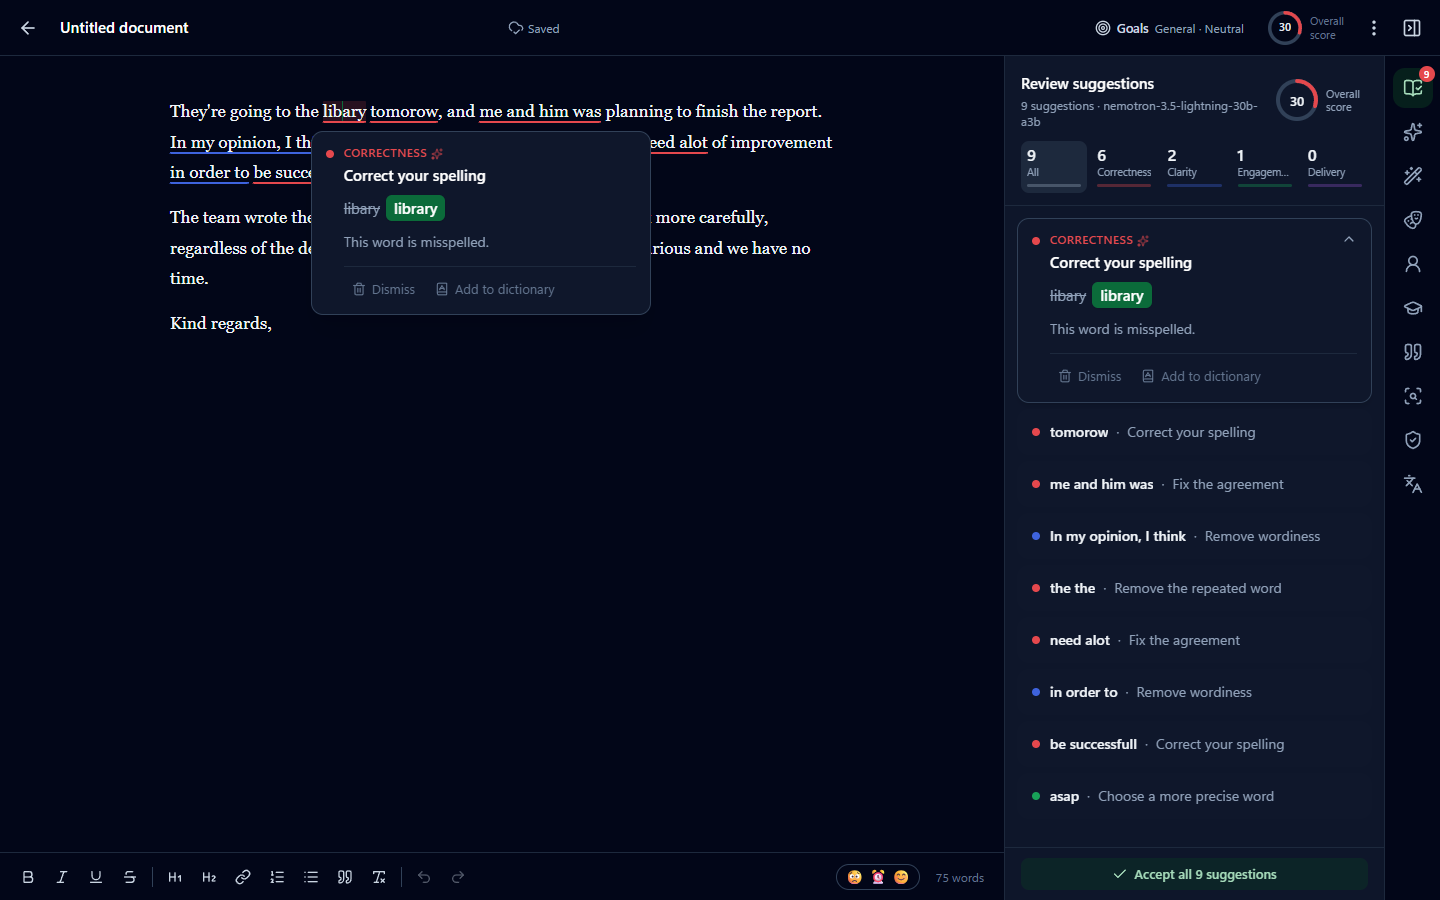
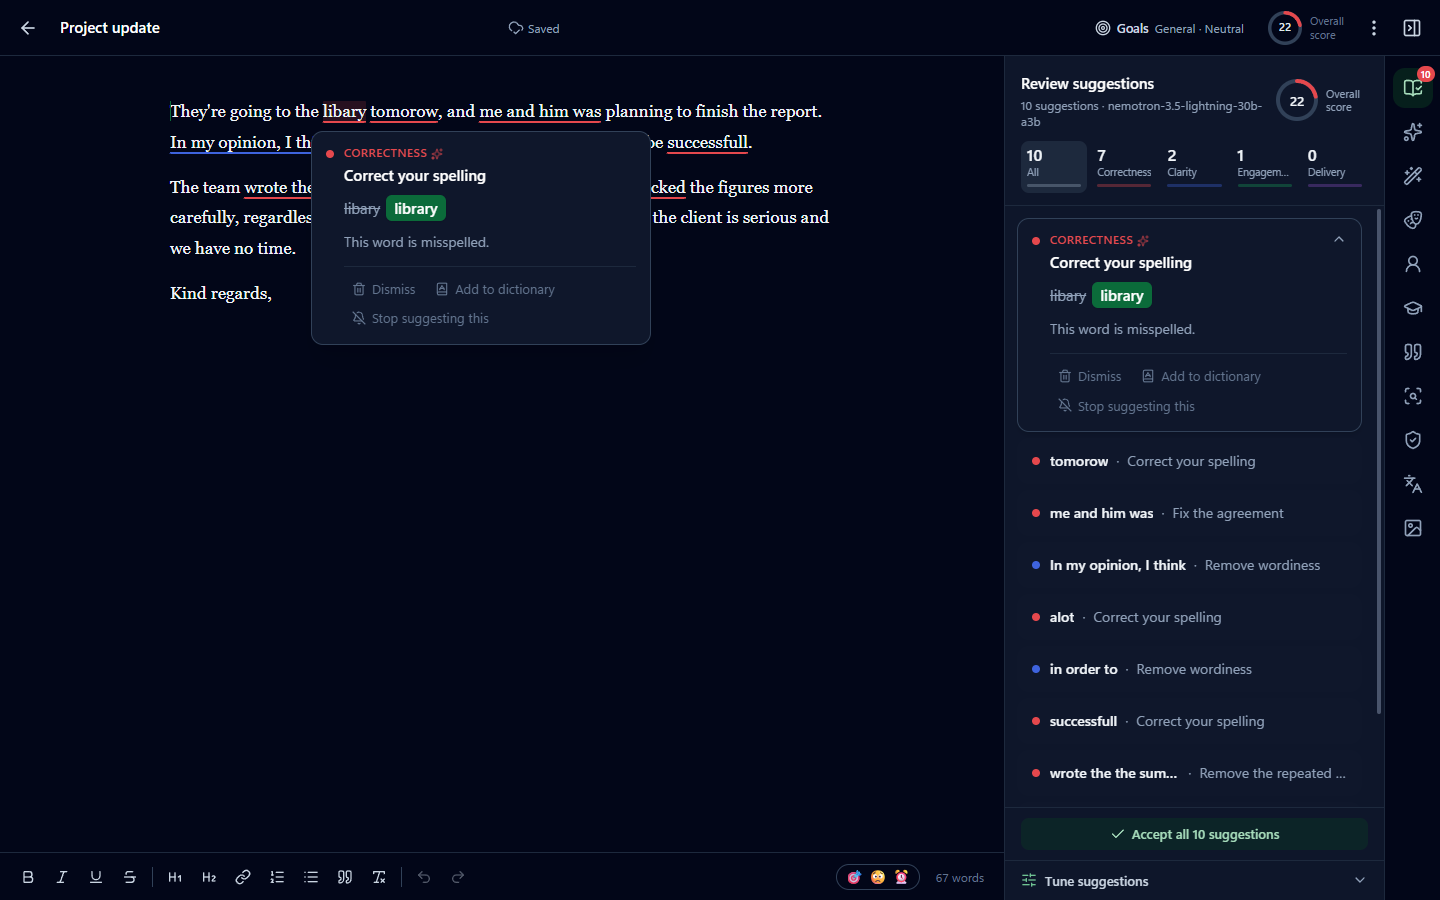
README: new screenshots for 1.1.0
A fresh editor screenshot, and the first screenshots of the desktop companion: the assistant beside underlined text in Edge, with the Paraphraser, AI Detector and Settings in a collapsible section.

diff --git a/README.md b/README.md
@@ -6,6 +6,8 @@ An AI writing assistant that runs on **NVIDIA NIM** models. It checks your writi
 
 ![NimbleWrite editor: underlined suggestions, an inline correction card, and the Review suggestions sidebar with category tabs and Accept all](docs/editor.png)
 
+On Windows, the [desktop companion](#desktop-companion-windows) brings the same checks and every tool to the text box you're typing in, in any app.
+
 ## Download
 
 **[Download the Windows installer](https://github.com/esprit112/NimbleWrite/releases/latest)** (Windows 10/11, 64-bit). It installs the desktop companion and the editor, with everything they need included, and asks for your own NVIDIA API key on first run (you can create one at [build.nvidia.com](https://build.nvidia.com)). The installer isn't code-signed yet, so Windows SmartScreen may say "Windows protected your PC": choose **More info → Run anyway**. Each release lists the installer's SHA-256 so you can check the download.
@@ -76,6 +78,19 @@ Browser (React 19 + TipTap 3)                         Server (Express 5, port 43
 ## Desktop companion (Windows)
 
 `desktop/` is a small Windows app that brings NimbleWrite's checks to the text box you're typing in, in any app: Chrome, Edge, Electron apps, Notepad, WPF, WinForms and Win32 fields. It's a thin client. Checking and rewriting go through the same server (`/api/ai/assist`, `/api/ai/write`, `/api/ai/tone`), so it uses your saved settings, dialect and dictionary.
+
+![The desktop companion in an Edge window: suggestions underlined in the text, a badge with the count, and the assistant beside it on Review suggestions, with Fix all and Accept, Dismiss and Add to dictionary on each card](docs/desktop-review.png)
+
+<details>
+<summary>More of the assistant: Paraphraser, AI Detector and Settings</summary>
+
+![Paraphraser tab in formal mode: the selected sentence rewritten, with Replace, Copy and Discard](docs/desktop-paraphrase.png)
+
+![AI Detector tab: the share of the text that reads as AI-generated, the statistical signals and a card for each passage](docs/desktop-detector.png)
+
+![NimbleWrite Settings on the Writing section: English variant and suggestion kinds, shared with the editor](docs/desktop-settings.png)
+
+</details>
 
 ```bash
 cd desktop
